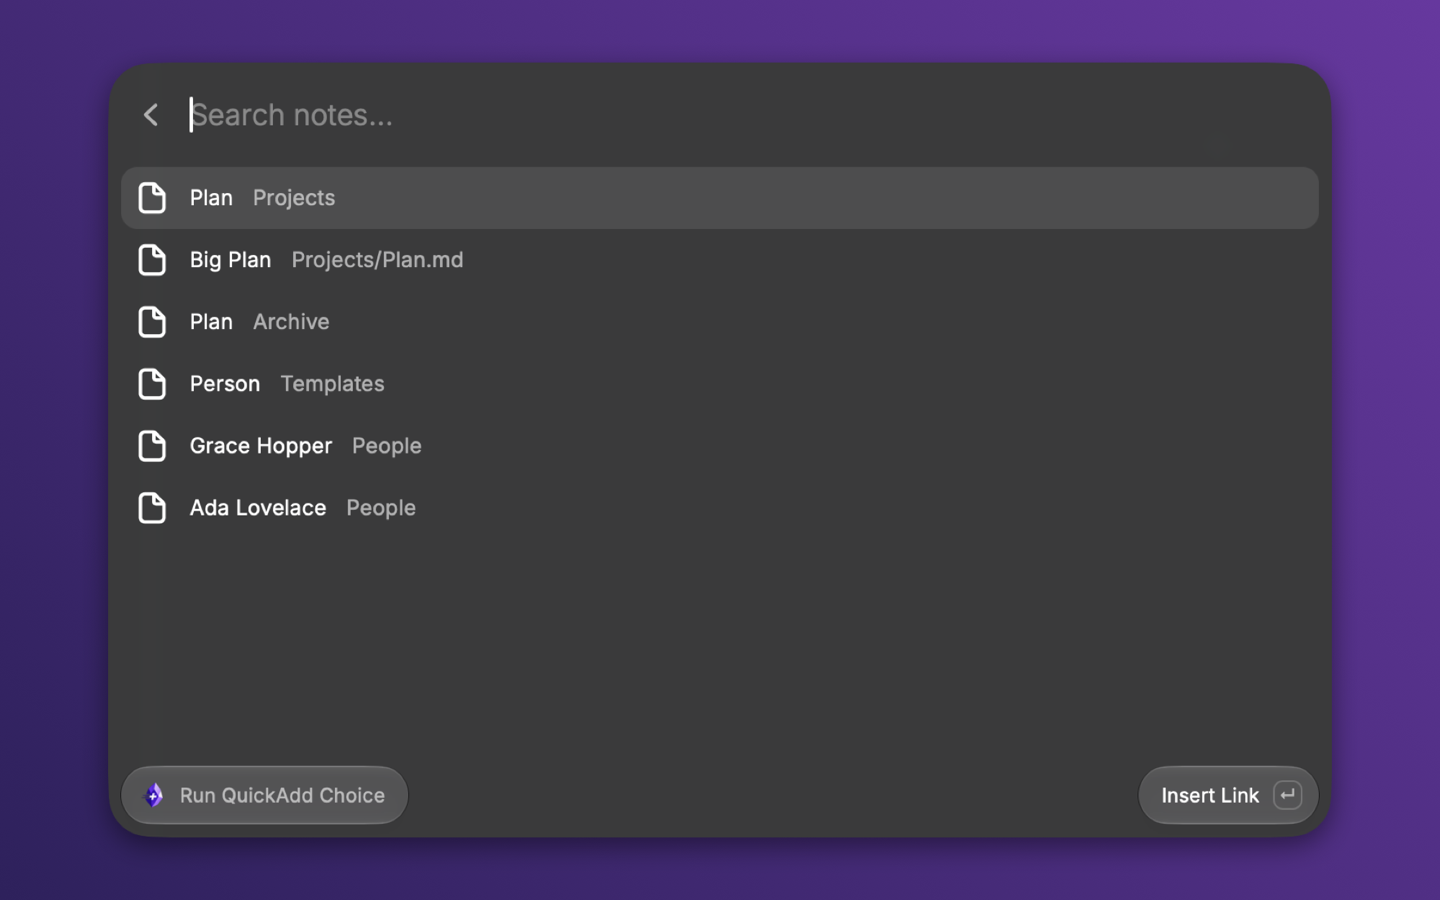
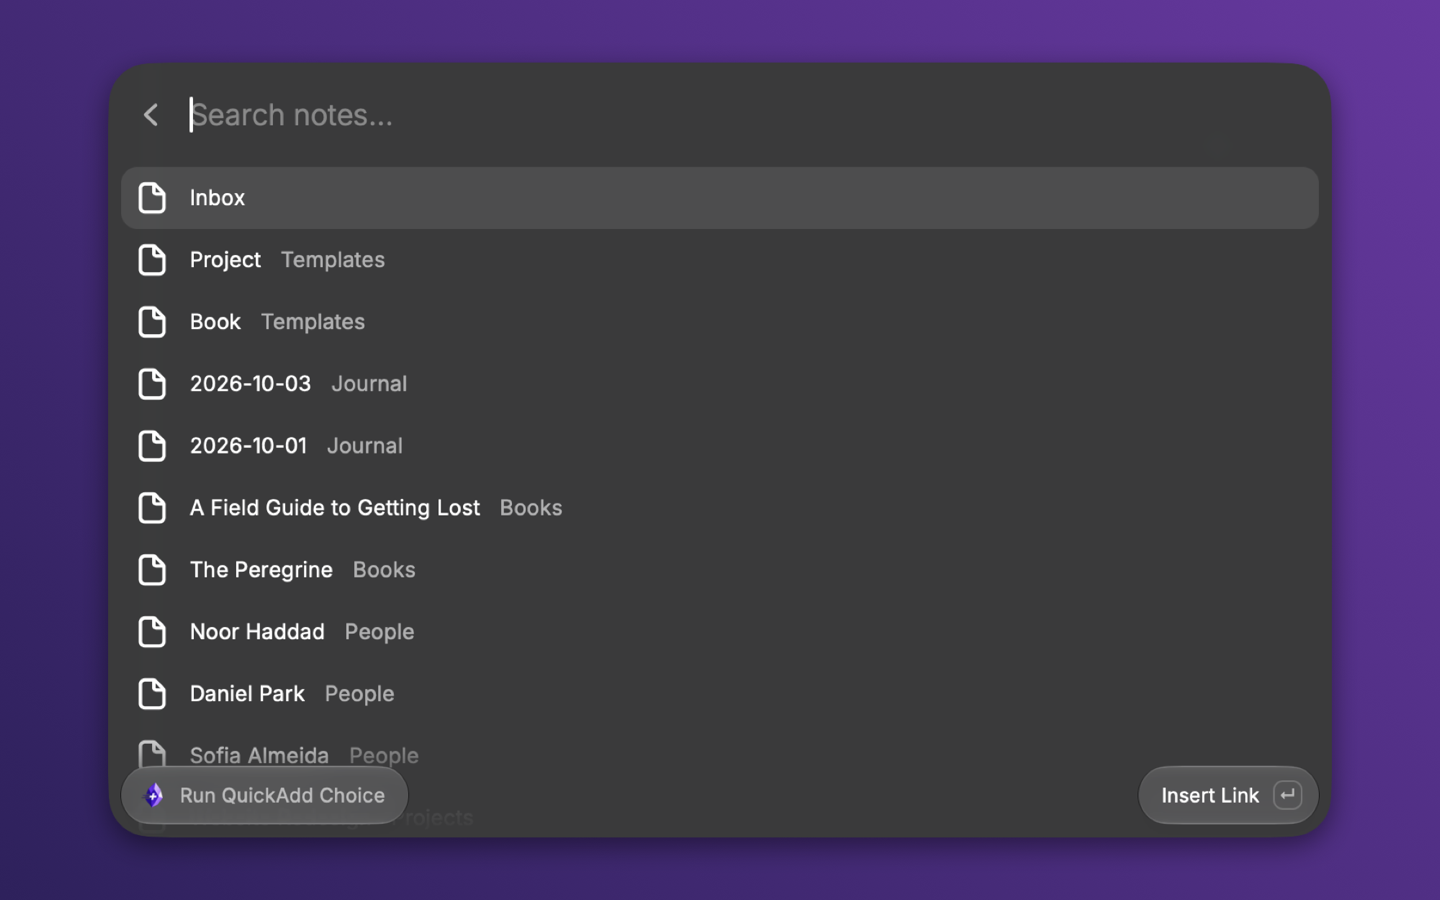
docs(raycast): pinned vault wins, about 20 seconds, demo-vault pictures, sentence-case label

diff --git a/docs/src/content/docs/docs/Advanced/RaycastExtension.md b/docs/src/content/docs/docs/Advanced/RaycastExtension.md
@@ -37,7 +37,7 @@ The extension is not in the Raycast Store yet, so install it from source.
 3. Press Enter. QuickAdd runs the choice inside Obsidian and sends each prompt
    to Raycast.
 
-![The Run QuickAdd Choice list in Raycast. A Recent section holds Capture text, and a Choices section lists Capture text, Capture color, Capture tags, Capture mood, Capture rating, Capture due date, and Capture to a picked note, each tagged Capture](../Images/raycast-run-choice.png)
+![The Run QuickAdd Choice list in Raycast. A Recent section holds New Project, Quick Capture, and Add Book, and a Choices section lists Quick Capture, Journal, Meeting Notes, Add Book, and New Project, each tagged Capture or Template](../Images/raycast-run-choice.png)
 
 Every prompt QuickAdd raises appears in Raycast:
 
@@ -54,14 +54,14 @@ Every prompt QuickAdd raises appears in Raycast:
 - A note picker starts empty, as in QuickAdd's own form, and a required one
   must have a pick before the form submits.
 
-![A form for the Log a meeting choice in Raycast with a Topic text field holding Roadmap review, a Person dropdown set to Ada Lovelace, and a Tags picker holding decision](../Images/raycast-form.png)
+![The Meeting Notes form in Raycast with a Topic text field holding Shed roof plans, a Person dropdown set to Sofia Almeida, and a Tags picker holding decision and follow-up](../Images/raycast-form.png)
 
 In a text field, type `[[` to pick a note or alias, or type `#` at the start
 of a word to pick a tag, most used first. The lists come from QuickAdd's
 [`quickadd:suggest`](/docs/Advanced/CLI/#quickaddsuggest), so they match what
 the editor offers. Picking an item inserts the link or tag where you typed.
 
-![The note picker that opens after typing two square brackets: Plan in Projects, the alias Big Plan for Projects/Plan.md, Plan in Archive, Person in Templates, Grace Hopper in People, and Ada Lovelace in People, with an Insert Link action](../Images/raycast-link-picker.png)
+![The note picker that opens after typing two square brackets, listing the vault's notes with their folders and an Insert Link action](../Images/raycast-link-picker.png)
 
 When the run finishes, a toast reads **Created** or **Added to** with the file
 name and offers **Open in Obsidian**. A choice with no prompts finishes with the
@@ -117,10 +117,11 @@ pin.
 The extension reads Obsidian's vault list and uses the one vault that has
 QuickAdd enabled. When several vaults have it, **Run QuickAdd Choice** asks
 which vault to use, and the capture commands stop with a message until you set
-the **Vault** preference. A set **Vault** preference always wins.
+the **Vault** preference. A set **Vault** preference wins over detection. A
+pinned Quicklink always runs in the vault it was pinned from.
 
 When the vault is closed, the extension opens it, which starts Obsidian when
-needed, and waits up to 20 seconds for QuickAdd to answer. **Run QuickAdd
+needed, and waits about 20 seconds for QuickAdd to answer. **Run QuickAdd
 Choice** reopens itself once the vault is ready, so Raycast comes back if
 Obsidian took the focus.
 
